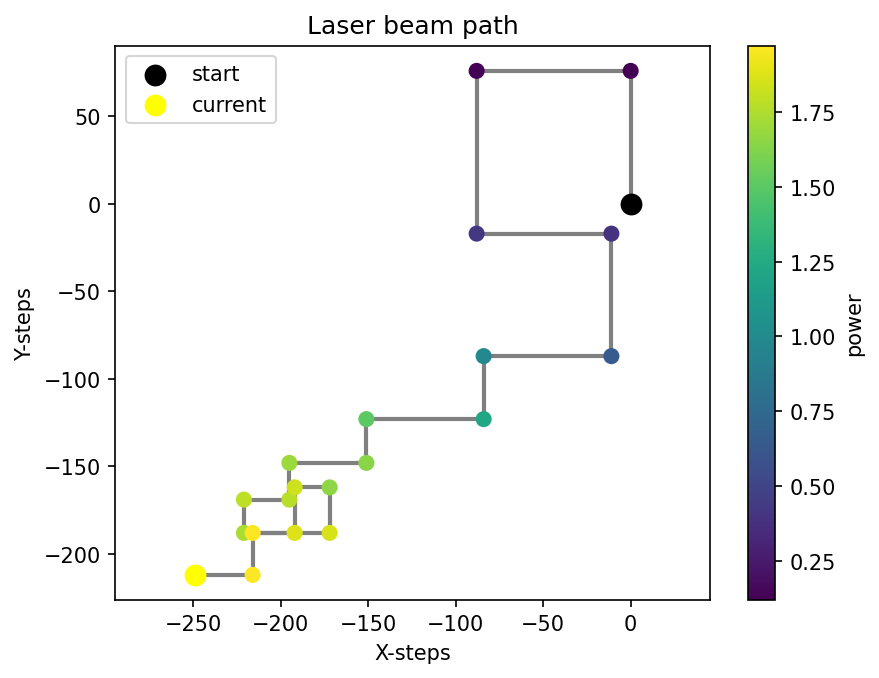
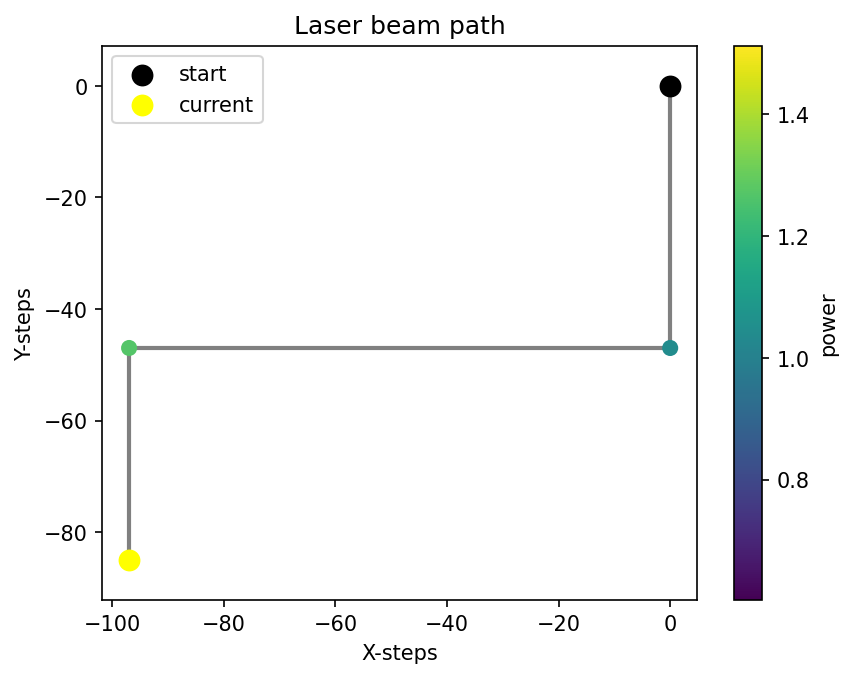
Power generalization

diff --git a/Neural Network/MultiAdjust/Logarithms.py b/Neural Network/MultiAdjust/Logarithms.py
@@ -1,0 +1,83 @@
+# Import libraries
+import numpy as np
+import pandas as pd
+import matplotlib.pyplot as plt
+import seaborn as sns
+from sklearn.linear_model import LinearRegression
+# Generate some skewed data
+np.random.seed(42)
+x = np.random.exponential(5, size=1000)
+y = 2 * x + np.random.normal(0, 5, size=1000)
+# Plot the original data
+sns.scatterplot(x=x, y=y)
+plt.xlabel('x')
+plt.ylabel('y')
+plt.title('Original Data')
+plt.show()
+# Plot the histogram of x
+sns.histplot(x=x)
+plt.xlabel('x')
+plt.ylabel('Frequency')
+plt.title('Histogram of x')
+plt.show()
+# Apply log transformation to x
+x_log = np.log(x)
+# Plot the transformed data
+sns.scatterplot(x=x_log, y=y)
+plt.xlabel('log(x)')
+plt.ylabel('y')
+plt.title('Transformed Data')
+plt.show()
+# Plot the histogram of log(x)
+sns.histplot(x=x_log)
+plt.xlabel('log(x)')
+plt.ylabel('Frequency')
+plt.title('Histogram of log(x)')
+plt.show()
+# Fit a linear regression model to the original data
+reg1 = LinearRegression()
+reg1.fit(x.reshape(-1, 1), y)
+y_pred1 = reg1.predict(x.reshape(-1, 1))
+r2_1 = reg1.score(x.reshape(-1, 1), y)
+# Fit a linear regression model to the transformed data
+reg2 = LinearRegression()
+reg2.fit(x_log.reshape(-1, 1), y)
+y_pred2 = reg2.predict(x_log.reshape(-1, 1))
+r2_2 = reg2.score(x_log.reshape(-1, 1), y)
+# Compare the R-squared values of the two models
+print(f'R-squared for original data: {r2_1:.3f}')
+print(f'R-squared for transformed data: {r2_2:.3f}')
+
+"""
+Output:
+R-squared for original data: 0.559
+R-squared for transformed data: 0.804
+The output shows that:
+- The original data is highly skewed to the right, with a long tail of high values. The histogram of x shows that most values are concentrated near zero, while some values are very large.
+- The transformed data is more symmetric and normal-like. The histogram of log(x) shows that the values are more evenly distributed around the mean.
+- The original data has a nonlinear relationship between x and y. The scatterplot of x and y shows that the points are curved and spread out.
+- The transformed data has a linear relationship between log(x) and y. The scatterplot of log(x) and y shows that the points are aligned and close to a straight line.
+- The linear regression model for the transformed data has a higher R-squared value than the model for the original data. This means that the transformed data explains more variation in y than the original data.
+These results demonstrate that log transformation can improve the quality and suitability of the data for machine learning models.
+(1) Log Transformation: Purpose and Interpretation | by Kyaw Saw Htoon - Medium. https://medium.com/@kyawsawhtoon/log-transformation-purpose-and-interpretation-9444b4b049c9.
+(2) Best practice in statistics: The use of log transformation. https://journals.sagepub.com/doi/full/10.1177/00045632211050531.
+(3) Logarithms — What, Why and How. Understanding the intuition behind .... https://towardsdatascience.com/logarithms-what-why-and-how-ff9d050d3fd7.
+(4) Log transformation | Data Science and Machine Learning | Kaggle. https://www.kaggle.com/questions-and-answers/61612.
+Cite
+1 Recommendation
+Popular answers (1)
+Rahul Pandya
+DePaul University
+Hello Jaypal Singh Rajput ,
+Log-transformations are used when the data is highly skewed (that is highly asymmetrical data). Now when u fit such data in any model, it will result in a highly unstable and an unreliable model. It will give false predictions. [1].
+In say regression models, it helps us judge the relation between the data points and ease out the process of detecting outliers significantly.
+It shall give a clear picture of what data points to be considered and which ones to be dropped or either sampled (over-sampled or under sample in case of imbalanced datasets).
+It shall make the distributions more aligned towards the normal distribution curve for better learning and thus prediction. [2]
+The value of log and its base depends on the type of the tail the distribution has and how much more linearly it needs to be transformed.
+Here it has been visually depicted how log transformation works on skewed datasets. [3][4]
+[1]. study notes: Handling Skewed data for Machine Learning models | by Cheryl | Medium
+[2] Log Transformation: How it can transform ML model performance? | by Rahul Kumar | Medium
+[3] Transforming Skewed Data for Machine Learning - (opendatascience.com)
+[4]Interpreting Log Transformations in a Linear Model | University of Virginia Library Research Data Services + Sciences
+Thank you.
+"""

diff --git a/Neural Network/MultiAdjust/PhysicalAlignment.py b/Neural Network/MultiAdjust/PhysicalAlignment.py
@@ -11,7 +11,6 @@ from XYMoveSamples import generate_samples
 from picoMotor import send, setup, move, get_pos, cleanup
 
 n_samples = 5000
-step = 25
 moves = 4
 
 SEED = 7 # Keep the same as Laser Alignment
@@ -32,7 +31,7 @@ TRAIN_SCANS = [
     r'C:\Users\grant\Downloads\Summer Internship\Neural Network\MultiAdjust\scan_data_iris2.1.npz',
     r'C:\Users\grant\Downloads\Summer Internship\Neural Network\MultiAdjust\scan_data_att.npz',
 ]
-mod_counts, corrections = generate_samples(TRAIN_SCANS, n_samples, moves, step)
+mod_counts, corrections = generate_samples(TRAIN_SCANS, n_samples, moves)
 
 laser_mod = LinnModel()
 out_dim = corrections.shape[1]
@@ -101,6 +100,40 @@ def look_for_signal():
             seg_len += 1
         print('No signal - Scanning')
 
+def fine_tune():
+    step = 32
+    axis = 0
+    while step >= 4:
+        peak = read_power()
+
+        # Check + 1 and keep it if it improves, else undo it and search - 1
+        move(axis, 1, step, velocity, driver)
+        time.sleep(.1)
+        cur_power = read_power()
+        if cur_power > peak:
+            bearing = 1
+            peak = cur_power
+        else:
+            move(axis, -1, step, velocity, driver) # Undo bad move
+            bearing = -1
+
+        while True:
+            move(axis, bearing, step, velocity, driver)
+            time.sleep(.1)
+            cur_power = read_power()
+            if cur_power > peak:
+                peak = cur_power # New peak
+            else:
+                move(axis, -bearing, step, velocity, driver)
+                break
+
+        # Switch axis each round, halve the step after both axes are done
+        if axis == 0:
+            axis = 1
+        else:
+            axis = 0
+            step //= 2
+
 def plot_path():
     X = np.array(Xmoves, dtype=float)
     Y = np.array(Ymoves, dtype=float)
@@ -123,7 +156,7 @@ def plot_path():
     plt.savefig('LaserMovement.png', dpi=150, bbox_inches='tight')
 
 def xy_start():
-    # 2 moves and data to start with
+    # 4 moves and data to start with
     global axis, direction, pwr
     axis = [1,0,1,0]
     direction = [1,1,-1,-1]
@@ -131,7 +164,7 @@ def xy_start():
 
     for i in range(moves):
         pwr.append(read_power())
-        move(axis[i], direction[i], step, velocity, driver)
+        move(axis[i], direction[i], 50, velocity, driver)
 
     # Reverse so slot [0] = most recent move 
     axis      = axis[::-1]
@@ -213,6 +246,7 @@ try:
         # If it doesn't find a new max, get back to the max
         
         if (((max(pwr) - min(pwr)) <= .025*peak) and (min(pwr) > .1) or (len(Xmoves) > 50)):
+            fine_tune()
             if driver == 1: driver = 2
             else: driver = 1 
             print(f'CENTER REACHED IN {len(Xmoves)} MOVES, PLEASE MOVE THE METER TO IRIS {driver}')

diff --git a/Neural Network/MultiAdjust/XYMoveSamples.py b/Neural Network/MultiAdjust/XYMoveSamples.py
@@ -11,8 +11,15 @@ import random
 from scipy.interpolate import LinearNDInterpolator
 from tqdm import tqdm
 
+# Range of beam peak powers (mW, as read by read_power) the model is trained to
+# handle. Each training sample's scan is rescaled to a hypothetical real beam
+# peaking log-uniformly within this band, so any deployment peak in [PEAK_MIN,
+# PEAK_MAX] is in-distribution. Readings stay true mW -- nothing is normalized.
+PEAK_MIN = 0.5
+PEAK_MAX = 5.0
+
 # min_power_frac defines the boundary that the random points can spawn in
-def generate_samples(npz_paths, n_samples, moves, step, min_power_frac=0.005,
+def generate_samples(npz_paths, n_samples, moves, min_power_frac=0.005,
                      bin_width=0.01, pool_size=None, verbose=True):
     """Generate training rows from one or more beam scans.
 
@@ -32,7 +39,7 @@ def generate_samples(npz_paths, n_samples, moves, step, min_power_frac=0.005,
         if verbose:
             print(f'--- {per_scan} samples from {path} ---')
         counts, corr = _generate_from_scan(
-            path, per_scan, moves, step, min_power_frac=min_power_frac,
+            path, per_scan, moves, min_power_frac=min_power_frac,
             bin_width=bin_width, pool_size=pool_size, verbose=verbose,
         )
         all_counts.append(counts)
@@ -45,7 +52,7 @@ def generate_samples(npz_paths, n_samples, moves, step, min_power_frac=0.005,
     return mod_counts[order], corrections[order]
 
 
-def _generate_from_scan(npz_path, n_samples, moves, step, min_power_frac=0.005,
+def _generate_from_scan(npz_path, n_samples, moves, min_power_frac=0.005,
                         bin_width=0.01, pool_size=None, verbose=True):
 
     with np.load(npz_path) as data:
@@ -164,8 +171,14 @@ def _generate_from_scan(npz_path, n_samples, moves, step, min_power_frac=0.005,
         y = int(spawn_y[i])
 
         # Per-sample random max power: scale all readings so this scan's peak
-        # maps to a value drawn uniformly from [0.5, 5].
-        power_scale = random.uniform(0.5, 5.0) / peak_power
+        # maps to a hypothetical real beam peaking somewhere in [PEAK_MIN, PEAK_MAX]
+        # mW. Sampling log-uniformly spreads the synthetic peaks evenly across the
+        # range (rather than clustering near the top), so the network sees genuine
+        # power values at every brightness it will meet at deployment and never has
+        # to extrapolate. Readings stay true mW on both sides -- deployment feeds
+        # raw read_power() unchanged.
+        target_peak = 10 ** random.uniform(np.log10(PEAK_MIN), np.log10(PEAK_MAX))
+        power_scale = target_peak / peak_power
 
         current = get_power(x, y) * power_scale
 

diff --git a/Neural Network/MultiAdjust/LaserAlignment.py b/Neural Network/MultiAdjust/LaserAlignment.py
@@ -7,7 +7,6 @@ from XYMoveSamples import generate_samples
 
 # Amount of random cursors to simulate with
 n_samples = 5000
-step = 25
 moves = 4 # Length of the move history
 
 # Seed both RNGs so the training data is reproducible. Must match the SEED in PhysicalAlignment.py.
@@ -27,7 +26,7 @@ TRAIN_SCANS = [
     r'C:\Users\grant\Downloads\Summer Internship\Neural Network\MultiAdjust\scan_data_iris2.1.npz',
     r'C:\Users\grant\Downloads\Summer Internship\Neural Network\MultiAdjust\scan_data_att.npz',
 ]
-mod_counts, corrections = generate_samples(TRAIN_SCANS, n_samples, moves, step)
+mod_counts, corrections = generate_samples(TRAIN_SCANS, n_samples, moves)
 
 # -----------------------------------------------------------TRAINING--------------------------------------------------------
 #optimizer = tf128.keras.optimizers.Adam(learning_rate=.005)
@@ -73,7 +72,7 @@ plt.show()
 # Test on a different beam scan to gauge generalization
 mod_counts, corrections = generate_samples(
     r'C:\Users\grant\Downloads\Summer Internship\Neural Network\MultiAdjust\scan_data_iris1.0.npz',
-    n_samples, moves, step,
+    n_samples, moves
 )
 
 preds = laser_mod.predict(mod_counts, scale=True, unscale_output=True) # The golden line